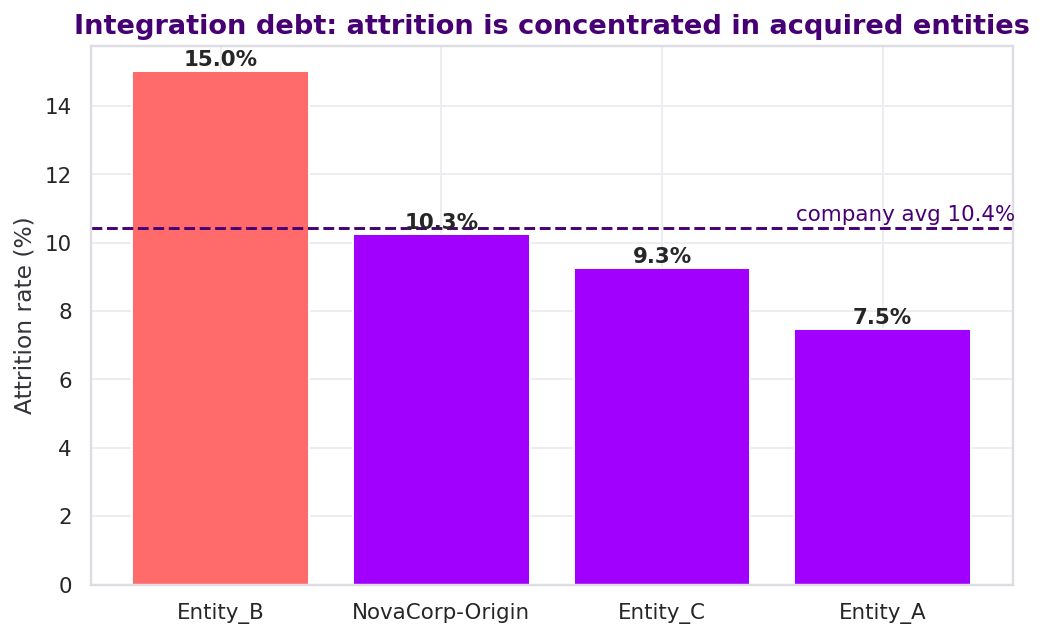
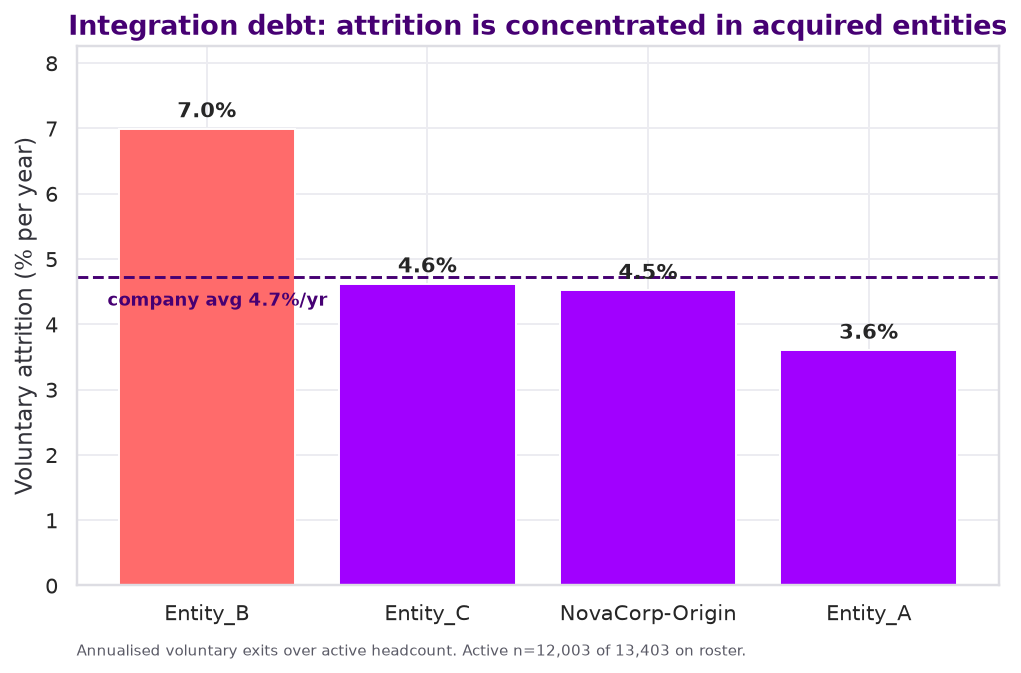
fix(part1): correct push pathway and survey silence findings, restate entity rates

Changed region(s): [[0.0, 0.0, 1.0, 0.9828], [0.0304, 0.8636, 0.0607, 0.8934]]

diff --git a/explore_part1.py b/explore_part1.py
@@ -89,6 +89,10 @@ FIG_DIR.mkdir(parents=True, exist_ok=True)
 # Snapshot date = the day we "observe" the workforce (latest event in the data)
 SNAPSHOT = pd.Timestamp("2025-12-31")
 
+# Observation window is 1 Jan 2024 to 31 Dec 2025. Rates quoted on slides are
+# divided by this so they read per year rather than per two years.
+WINDOW_YEARS = 2.0
+
 # ----------------------------------------------------------------------------
 # Accenture-flavoured plotting style (their signature purple)
 # ----------------------------------------------------------------------------
@@ -178,6 +182,14 @@ def load_data():
 
     # -- Build the master analysis frame ----------------------------------
     emp["departed"] = (emp.status == "departed").astype(int)
+
+    # Voluntary exits and active headcount, for rates we quote on slides.
+    # An involuntary exit is a decision the company made rather than a loss it
+    # suffered, and a rate divided by a roster that still contains leavers
+    # understates it. See A6 and A14.
+    emp["vol_exit"] = emp.employee_id.isin(
+        set(att[att.exit_type == "voluntary"].employee_id)).astype(int)
+    emp["is_active"] = (emp.status == "active").astype(int)
     # robust tenure: hire -> (exit if departed else snapshot)
     end = emp.exit_date.where(emp.departed == 1, SNAPSHOT)
     emp["duration_months"] = months_between(emp.hire_date, pd.to_datetime(end)).clip(lower=0)
@@ -287,29 +299,41 @@ def attrition_anatomy(emp, att):
 def integration_debt(emp):
     section("SECTION 2 — POST-MERGER INTEGRATION DEBT (attrition by legacy entity)")
 
+    # Rate is annualised voluntary exits over active headcount, matching the
+    # convention used across the deck. An earlier version used all departures
+    # over the full roster, which reads about twice as high and is the same
+    # construction the deck criticises the Annual Report for. See A14.
     g = emp.groupby("legacy_entity_code").agg(
-        headcount=("employee_id", "size"),
-        attrition_rate=("departed", "mean"),
+        headcount=("is_active", "sum"),
+        vol_exits=("vol_exit", "sum"),
         eng_index=("eng_index", "mean"),
         compa_ratio=("compa_ratio", "mean"),
         hipo_rate=("hipo_flag", "mean"),
-    ).sort_values("attrition_rate", ascending=False)
-    g["attrition_rate"] *= 100
+    )
+    g["attrition_rate"] = g.vol_exits / g.headcount * 100 / WINDOW_YEARS
+    g = g.sort_values("attrition_rate", ascending=False)
     print(g.round(2).to_string())
 
-    base = emp.departed.mean() * 100
+    base = emp.vol_exit.sum() / emp.is_active.sum() * 100 / WINDOW_YEARS
     worst = g.index[0]
     lift = g.attrition_rate.iloc[0] / base
 
     fig, ax = plt.subplots(figsize=(8.5, 5))
     bars = ax.bar(g.index, g.attrition_rate,
                   color=[ACC_CORAL if v > base else ACC_PURPLE for v in g.attrition_rate])
+    ax.set_ylim(0, g.attrition_rate.max() * 1.18)
     ax.axhline(base, color=ACC_DEEP, ls="--", lw=1.5)
-    ax.text(len(g)-0.4, base+0.2, f"company avg {base:.1f}%", color=ACC_DEEP, ha="right")
+    # Label sits under the line on the left, where no bar top can reach it.
+    ax.text(-0.45, base - 0.22, f"company avg {base:.1f}%/yr",
+            color=ACC_DEEP, ha="left", va="top", fontsize=9.5, fontweight="bold")
     ax.set_title("Integration debt: attrition is concentrated in acquired entities")
-    ax.set_ylabel("Attrition rate (%)")
+    ax.set_ylabel("Voluntary attrition (% per year)")
     for b, v in zip(bars, g.attrition_rate):
-        ax.text(b.get_x()+b.get_width()/2, v+0.15, f"{v:.1f}%", ha="center", fontweight="bold")
+        ax.text(b.get_x()+b.get_width()/2, v + g.attrition_rate.max()*0.025,
+                f"{v:.1f}%", ha="center", fontweight="bold")
+    ax.annotate("Annualised voluntary exits over active headcount. "
+                f"Active n={emp.is_active.sum():,} of {len(emp):,} on roster.",
+                xy=(0, -0.13), xycoords="axes fraction", fontsize=7.5, color="#5A5A66")
     f1 = savefig(fig, "attrition_by_legacy_entity")
 
     # engagement vs attrition scatter by entity

diff --git a/findings.md b/findings.md
@@ -4,7 +4,9 @@ _Auto-generated by `explore_part1.py`. Every number below is computed from the f
 
 ## The one-sentence story
 
-> NovaCorp isn't losing a talent war — it is **pushing its best people out** (68% 'push' vs 32% poached), the damage is **concentrated in specific acquired entities**, and the earliest warning sign is **behavioural, not attitudinal** (people go *silent* on surveys long before scores drop) — which makes the majority of the $42M **preventable**.
+> NovaCorp isn't losing a talent war — most departures are **internally driven rather than poached**, the damage is **concentrated in specific acquired entities**, and the usable warning sign is **behavioural, not attitudinal** (the people who leave were *always* quieter on surveys, from their very first wave) — which makes a large share of the $42M **addressable**.
+
+*Restated 14 Aug. Two claims in the original version were wrong as written and are corrected below: the "68% push, therefore preventable" framing (finding 2) and the "people go silent before they quit" framing (finding 5). See A14 and A12 §4.*
 
 ## Ranked findings
 
@@ -14,9 +16,11 @@ _Auto-generated by `explore_part1.py`. Every number below is computed from the f
 **So what.** You cannot manage what you cannot see as one workforce. A single integrated people-data layer is the precondition for every recommendation that follows.
 
 ### 2. It's a self-inflicted wound, not a talent war
-**What the data shows.** 68% of exits are 'push' (disengagement-driven), only 32% are 'pull' (poached). 'Career advancement' is the #1 stated reason. And 37% of leavers (523 people) are High Performers or Outstanding.
+**What the data shows.** 955 of 1,400 exits (68%) are classed 'push', 445 (32%) 'pull'. **But the brief defines push as involuntary *or managed*, not disengagement-driven**, and 267 of those 955 are literally involuntary — 196 recorded as "Involuntary – performance", 50 as restructure. Excluding them, **688 of 1,133 voluntary exits (60.7%)** are push. 'Career advancement' is the #1 stated reason at 428. And 37% of leavers (523 people) are High Performers or Outstanding.
 
-**So what.** The dominant lever is internal (engagement, managers, growth) — not compensation to fight poachers. That reframes the entire business case toward *preventable* attrition.
+**So what.** The dominant lever is internal (engagement, managers, growth) rather than compensation to fight poachers. But an involuntary exit is a decision the company made, not a loss it suffered, so it cannot be counted as preventable attrition.
+
+*Corrected 14 Aug. The original read "68% of exits are 'push' (disengagement-driven)" and treated the whole 68% as preventable. Push is not a synonym for disengagement-driven, and the 267 involuntary exits inside it are not preventable losses. See A6 §1.5.*
 
 ![It's a self-inflicted wound, not a talent war](figures/01_exit_reasons_push_vs_pull.png)
 
@@ -36,10 +40,14 @@ _Auto-generated by `explore_part1.py`. Every number below is computed from the f
 
 ![Survey SCORES are a lagging signal — don't rely on them to catch flight risk](figures/05_preexit_engagement_decay.png)
 
-### 5. THE standout signal: silence predicts exit better than any survey score
-**What the data shows.** Employees in the lowest survey-response band leave at 30.6% versus 5.2% for consistent responders — a ~6x spread, and a far sharper separator than the engagement scores themselves. Leavers also respond 15 pts less overall, with the gap widening wave over wave.
+### 5. THE standout signal: low response separates leavers from stayers, and it does so from day one
+**What the data shows.** Employees in the lowest survey-response band leave at 30.6% versus 5.2% for consistent responders — a ~6x spread, and a far sharper separator than the engagement scores themselves. **This gap is present from the very first wave and does not widen.** Leavers respond at 70.6% in wave 1 and 70.3% in wave 5. Stayers go 84.9% to 80.5%. The gap actually *narrows*, from 14.4pt to 10.2pt.
 
-**So what.** Non-response is not missing data — it IS the data. A near-free 'going quiet' flag on the survey system NovaCorp already runs is the single highest-leverage early-warning signal available.
+**So what.** Non-response is not missing data — it IS the data. But it is a **stable trait, not a decline to detect**: any early-warning system built to spot someone *going* quiet will never fire, because they were quiet on arrival. Measure against the company baseline from an employee's first survey instead.
+
+⚠ **Do not deploy this as an individual flight-risk score.** It fails the four-fifths rule on age (impact ratio 0.15), role level and acquisition cohort, and its precision is 23%. Team-level diagnostic only, disclosed to staff. See the ethics workstream and deck slides 12–13.
+
+*Corrected 14 Aug. The original claimed the gap widened wave over wave and framed this as people going silent before quitting. The data shows the opposite: the gap is widest at wave 1 and narrows. See A12 §4.*
 
 ![THE standout signal: silence predicts exit better than any survey score](figures/07_nonresponse_leavers_vs_stayers.png)
 
@@ -86,9 +94,11 @@ _Auto-generated by `explore_part1.py`. Every number below is computed from the f
 ![The strongest predictors are all fixable engagement signals](figures/18_driver_univariate_strength.png)
 
 ### 12. The majority of the loss is preventable, and we can size it
-**What the data shows.** At a conservative 0.5-1.0x-salary replacement cost, ~566 voluntary exits/yr cost $35-70M/yr. Because 68% is 'push', roughly $24-48M/yr is addressable through engagement, manager and recognition levers — squarely inside the stated $42M.
+**What the data shows.** **Superseded by the costing engine.** All dollar figures now come from `ethics_finance/cost_model.py` on the brief's own constants (1.5× replacement, 85% backfill, 12% super). On that basis the value-based regrettable-attrition bucket is **$45.1M/yr**, disengagement **$17.8M/yr** and hiring inefficiency **$2.3M/yr**, totalling **$65.2M/yr** against Finance's $42M midpoint.
 
 **So what.** Every downstream recommendation can be tied to a defensible dollar figure, which is exactly what a CHRO needs to fund the change.
+
+*Corrected 14 Aug. The original used a 0.5–1.0× replacement multiplier the brief does not specify, and derived an addressable figure by applying the 68% push share, which double-counts the involuntary exits corrected in finding 2. Superseded rather than restated, because the costing engine now produces all dollar figures. See A14.*
 
 ![The majority of the loss is preventable, and we can size it](figures/20_business_impact_sizing.png)
 
@@ -97,7 +107,7 @@ _Auto-generated by `explore_part1.py`. Every number below is computed from the f
 
 ### How to read the analysis
 
-- **Push vs pull**: push = disengagement-driven exits; pull = poached by a better offer.
+- **Push vs pull**: per the brief, push = involuntary **or managed** exit; pull = employee-initiated in response to an outside opportunity. Push is **not** a synonym for disengagement-driven, and 267 of the 955 push exits are literally involuntary.
 
 - **Engagement index**: mean of the 8 pulse-survey dimensions, responded waves only.
 
